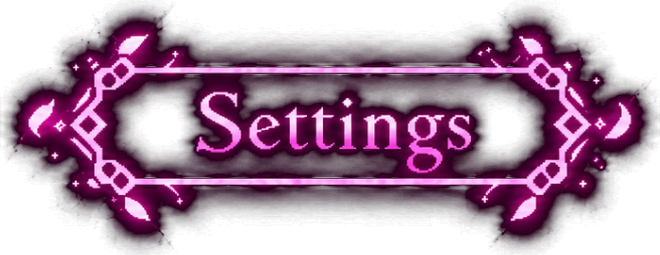
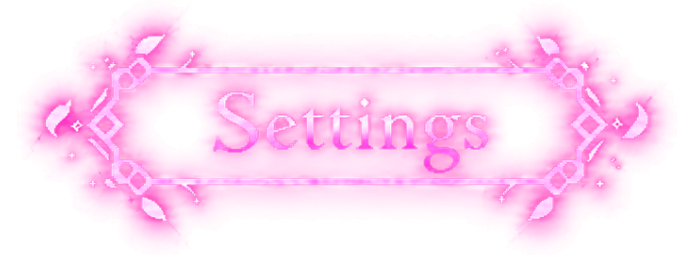
titlescreen

diff --git a/MonoGameLib/UI/ImageButton.cs b/MonoGameLib/UI/ImageButton.cs
@@ -1,6 +1,8 @@
-using Microsoft.Xna.Framework;
-using Microsoft.Xna.Framework.Graphics;
+
 using Gum.Forms.Controls;
+using Microsoft.Xna.Framework;
+using Microsoft.Xna.Framework.Graphics;
+using System;
 
 namespace MonoGameLibrary.UI;
 
@@ -8,6 +10,8 @@ public class ImageButton
 {
     private readonly Texture2D _normalTexture;
     private readonly Texture2D _hoverTexture;
+    private readonly Rectangle _normalSource;
+    private readonly Rectangle _hoverSource;
     private readonly Rectangle _bounds;
 
     public Button GumButton { get; }
@@ -22,35 +26,93 @@ public class ImageButton
         _normalTexture = normalTexture;
         _hoverTexture = hoverTexture;
         _bounds = bounds;
+
+        _normalSource = GetVisibleBounds(normalTexture);
+        _hoverSource = GetVisibleBounds(hoverTexture);
     }
 
-    public void Draw(SpriteBatch spriteBatch, Point mousePosition)
+    private static Rectangle GetVisibleBounds(Texture2D texture)
     {
-        bool hovered = _bounds.Contains(mousePosition);
+        Color[] pixels = new Color[
+            texture.Width * texture.Height
+        ];
 
+        texture.GetData(pixels);
+
+        int minX = texture.Width;
+        int minY = texture.Height;
+        int maxX = -1;
+        int maxY = -1;
+
+        for (int y = 0; y < texture.Height; y++)
+        {
+            for (int x = 0; x < texture.Width; x++)
+            {
+                if (pixels[y * texture.Width + x].A <= 8)
+                    continue;
+
+                minX = Math.Min(minX, x);
+                minY = Math.Min(minY, y);
+                maxX = Math.Max(maxX, x);
+                maxY = Math.Max(maxY, y);
+            }
+        }
+
+        if (maxX < minX || maxY < minY)
+            return new Rectangle(0, 0, texture.Width, texture.Height);
+
+        return new Rectangle(
+            minX,
+            minY,
+            maxX - minX + 1,
+            maxY - minY + 1
+        );
+    }
+
+    public bool Contains(Point mousePosition)
+    {
+        return _bounds.Contains(mousePosition);
+    }
+
+    public void Draw(SpriteBatch spriteBatch, bool hovered)
+    {
         Texture2D texture = hovered
             ? _hoverTexture
             : _normalTexture;
 
-        if (hovered)
-        {
-            spriteBatch.Draw(texture, _bounds, Color.White);
-        }
-        else
-        {
-            float scale = _bounds.Width / (float)_hoverTexture.Width;
+        Rectangle source = hovered
+            ? _hoverSource
+            : _normalSource;
 
-            int width = (int)(_normalTexture.Width * scale);
-            int height = (int)(_normalTexture.Height * scale);
+        // The normal text is deliberately smaller than the hover frame.
+        float maxWidth = hovered
+            ? _bounds.Width
+            : _bounds.Width * 0.75f;
 
-            Rectangle normalBounds = new Rectangle(
-                _bounds.Center.X - width / 2,
-                _bounds.Center.Y - height / 2,
-                width,
-                height
-            );
+        float maxHeight = hovered
+            ? _bounds.Height
+            : _bounds.Height * 0.65f;
 
-            spriteBatch.Draw(texture, normalBounds, Color.White);
-        }
+        float scale = Math.Min(
+            maxWidth / source.Width,
+            maxHeight / source.Height
+        );
+
+        int width = (int)(source.Width * scale);
+        int height = (int)(source.Height * scale);
+
+        Rectangle destination = new Rectangle(
+            _bounds.Center.X - width / 2,
+            _bounds.Center.Y - height / 2,
+            width,
+            height
+        );
+
+        spriteBatch.Draw(
+            texture,
+            destination,
+            source,
+            Color.White
+        );
     }
 }

diff --git a/MonoGameLib/UI/ButtonManager.cs b/MonoGameLib/UI/ButtonManager.cs
@@ -1,4 +1,5 @@
-using System;
+
+using System;
 using System.Collections.Generic;
 using Gum;
 using Gum.Forms.DefaultVisuals.V3;
@@ -19,13 +20,9 @@ public class ButtonManager
         Texture2D hoverTexture,
         int yPosition,
         Action onClick,
-        int width = 500)
+        int width = 300,
+        int height = 116)
     {
-        int height = (int)(
-            hoverTexture.Height *
-            (width / (float)hoverTexture.Width)
-        );
-
         Button button = new Button();
 
         button.Width = width;
@@ -35,7 +32,6 @@ public class ButtonManager
         button.X = 0;
         button.Y = yPosition;
 
-        // Hide the Gum artwork, but retain its interaction.
         ButtonVisual visual = (ButtonVisual)button.Visual;
 
         visual.Background.Visible = false;
@@ -69,14 +65,33 @@ public class ButtonManager
         if (viewport.Width <= 0 || viewport.Height <= 0)
             return;
 
+        Point screenPosition = new Point(mouse.X, mouse.Y);
+
         Point mousePosition = new Point(
             (mouse.X - viewport.X) * Core.VirtualWidth / viewport.Width,
             (mouse.Y - viewport.Y) * Core.VirtualHeight / viewport.Height
         );
 
-        foreach (ImageButton button in _buttons)
+        int hoveredIndex = -1;
+
+        if (viewport.Contains(screenPosition))
         {
-            button.Draw(spriteBatch, mousePosition);
+            for (int i = 0; i < _buttons.Count; i++)
+            {
+                if (_buttons[i].Contains(mousePosition))
+                {
+                    hoveredIndex = i;
+                    break;
+                }
+            }
+        }
+
+        for (int i = 0; i < _buttons.Count; i++)
+        {
+            _buttons[i].Draw(
+                spriteBatch,
+                i == hoveredIndex
+            );
         }
     }
 

diff --git a/NEA/Scenes/StartScene.cs b/NEA/Scenes/StartScene.cs
@@ -55,28 +55,34 @@ public class StartScene : Scene
 
         _buttonManager = new ButtonManager();
 
+        // Start Game
         _buttonManager.AddButton(
             menuPanel,
             _startNormal,
             _startHover,
-            200,
-            () => Core.ChangeScene(new GameScene())
+            160,
+            () => Core.ChangeScene(new GameScene()),
+            width: 300
         );
 
+        // Settings
         _buttonManager.AddButton(
             menuPanel,
             _settingsNormal,
             _settingsHover,
-            310,
-            () => { }
+            300,
+            () => { },
+            width: 300
         );
 
+        // Exit
         _buttonManager.AddButton(
             menuPanel,
             _exitNormal,
             _exitHover,
-            420,
-            () => Core.Instance.Exit()
+            440,
+            () => Core.Instance.Exit(),
+            width: 300
         );
     }
 
